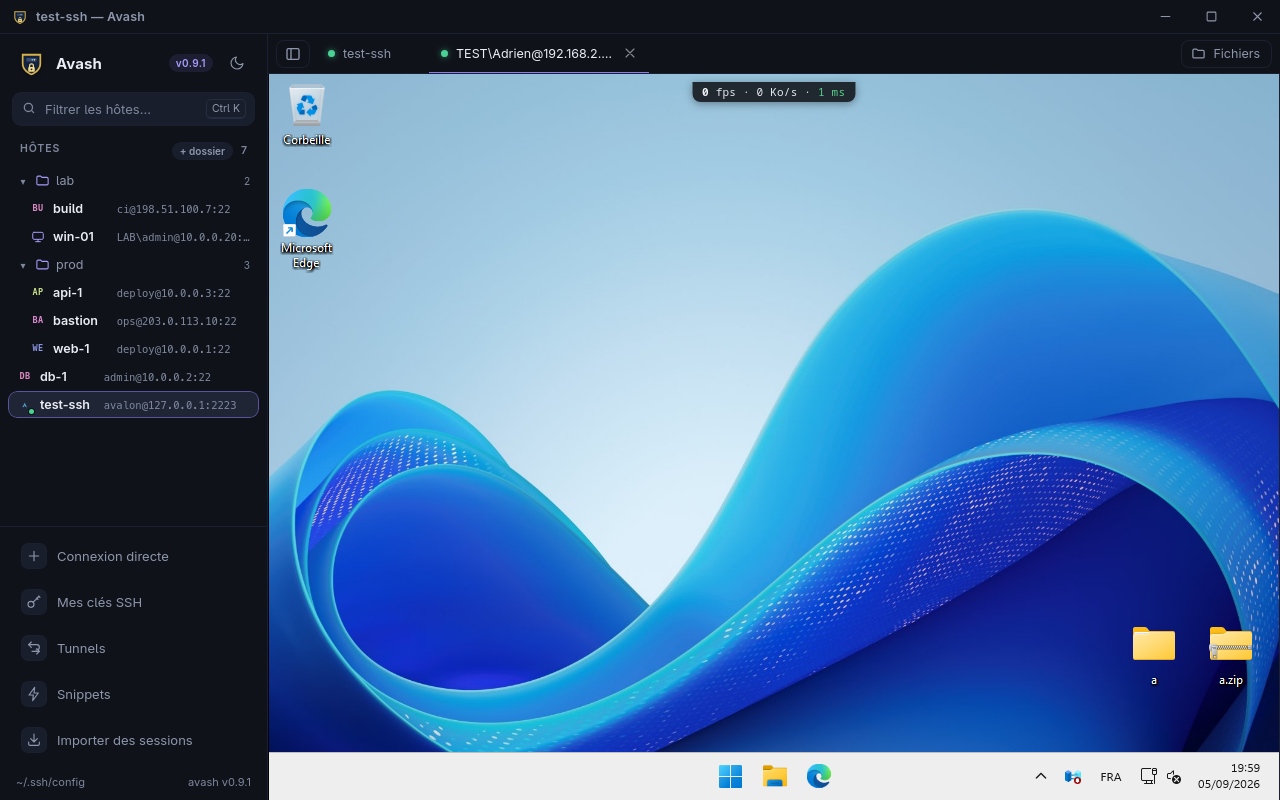
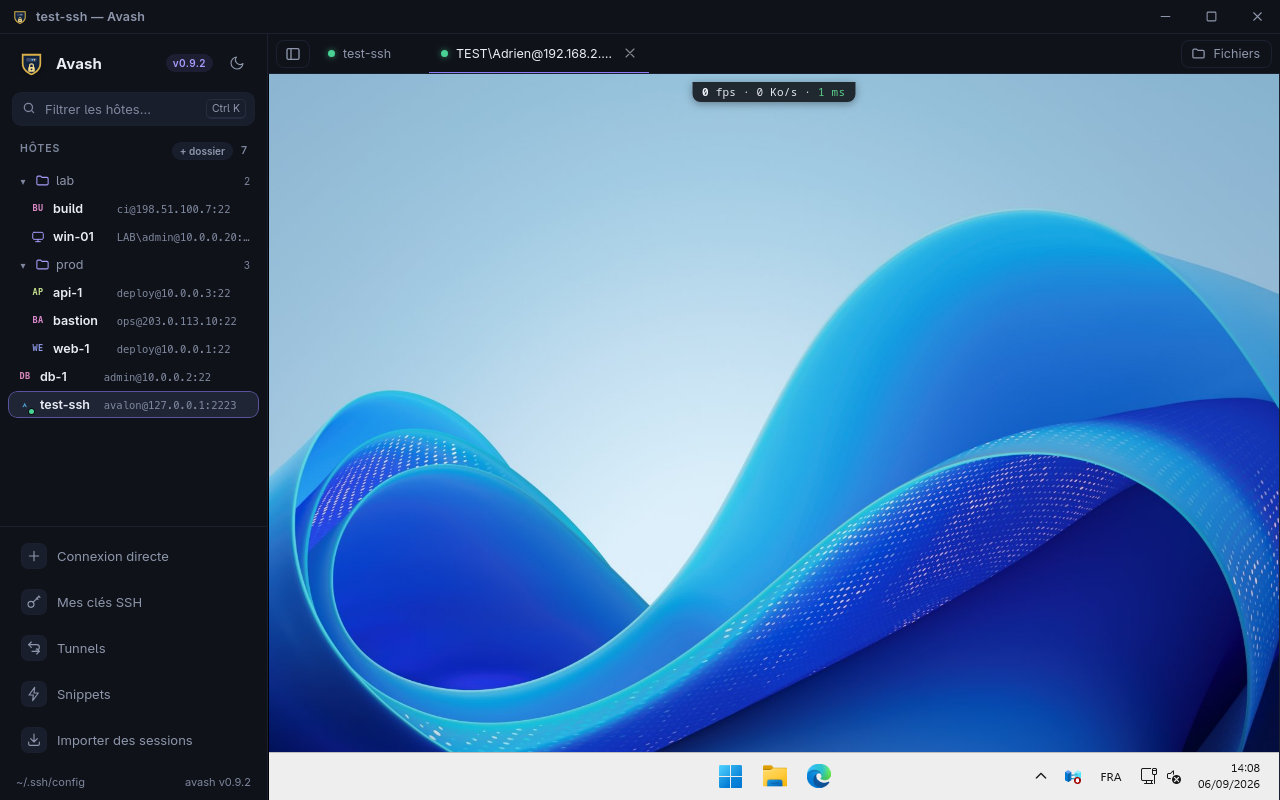
chore(release): 0.9.2
Correctif livré : une offre de fichier au bureau distant dans la foulée
d'une réception n'échoue plus (le canal du presse-papiers est attendu
jusqu'à trois secondes). Dans le même lot : la couverture mesurée sur
tests unitaires et suite bout en bout (84 % de l'espace de travail, 81 %
du processus RDP), deux scénarios de plus (clés SSH, tunnel réellement
ouvert), neuf tests du front, et la publication sur winget documentée.

Version portée dans les sept déclarations et les exemples des README ;
section [0.9.2] du CHANGELOG datée, entrée AppStream ajoutée, feuille de
route mise à jour. Captures régénérées sur le binaire 0.9.2 (poste du
parc dont la fenêtre de l'Explorateur, ouverte par les essais du lecteur
partagé, a été refermée d'abord).

Porte : NO_STRIP=1 ./scripts/release.sh vert (check.sh complet, AppImage,
deb, rpm, signatures de mise à jour).

Claude-Session: https://claude.ai/code/session_011o41sbD78KxYNxjUrR8xwF

diff --git a/docs/feuille-de-route.md b/docs/feuille-de-route.md
@@ -4,7 +4,7 @@ Ce document fixe le cap d'avash et sert de point de reprise entre les sessions d
 travail. Il est volontairement **fondé sur des constats mesurés**, pas sur des
 intentions : chaque objectif est vérifiable.
 
-Dernière révision : 5 septembre 2026, après la publication de la version 0.9.1
+Dernière révision : 6 septembre 2026, après la publication de la version 0.9.2
 — un lot de fond (panneau SFTP sur la session du terminal, mot de passe oublié
 dès la connexion, front et processus RDP découpés en modules, chaîne
 d'intégration complète, quarante tests de plus, fuzzing du parseur), après la
@@ -34,7 +34,7 @@ défaut n'est pas livrée, même terminée.
 
 ## Où nous en sommes (mesuré)
 
-| Indicateur | Valeur au 05/09/2026 |
+| Indicateur | Valeur au 06/09/2026 |
 |---|---|
 | Tests | 441 Rust (158 cœur, 47 intégration, 72 interface, 135 processus RDP, 29 serveurs de test) · 597 dans les paquets IronRDP et vnc-rs portés · 124 front · 71 scénarios bout en bout dans 36 fichiers, tous en intégration continue, sous Linux et sous Windows (serveurs locaux compris depuis le 05/09/2026), et hors serveurs locaux sous macOS |
 | Binaire Linux | 18 Mo (`codegen-units=1`, LTO fin) ; AppImage publiée 85 Mo |
@@ -42,7 +42,7 @@ défaut n'est pas livrée, même terminée.
 | Plateformes livrées | Linux (AppImage) et Windows (NSIS + portable), éprouvées sur machine réelle ; macOS (image disque) construite et testée en CI, pas encore éprouvée |
 | Couverture | 84 % des lignes de l'espace de travail (cœur 91 %, interface 70 %), 81 % du processus RDP, tests unitaires et suite bout en bout confondus sur des binaires instrumentés (`scripts/couverture.sh`, 06/09/2026) ; 201 mutants sur 264 attrapés sur les modules de sécurité |
 | Dette déclarée | aucun `TODO`/`FIXME` dans le code |
-| Version publiée | 0.9.1 (Linux AppImage, deb et rpm, Windows, macOS ; signées, attestation Sigstore et SBOM) |
+| Version publiée | 0.9.2 (Linux AppImage, deb et rpm, Windows, macOS ; signées, attestation Sigstore et SBOM) |
 | Licence | AGPL-3.0-or-later (+ licence commerciale possible) |
 
 Acquis récents : Windows validé en usage réel (RDP, clavier, mise à jour

diff --git a/README.md b/README.md
@@ -73,8 +73,8 @@ signés pour la mise à jour automatique et accompagnés de leurs empreintes.
 ### Linux
 
 ```bash
-chmod +x Avash_0.9.1_amd64.AppImage
-./Avash_0.9.1_amd64.AppImage
+chmod +x Avash_0.9.2_amd64.AppImage
+./Avash_0.9.2_amd64.AppImage
 ```
 
 L'AppImage embarque tout ce qu'il faut, WebKitGTK compris : rien à installer.
@@ -82,8 +82,8 @@ Pour une installation par le gestionnaire de paquets, la release porte aussi un
 `.deb` (Debian, Ubuntu) et un `.rpm` (Fedora, openSUSE) :
 
 ```bash
-sudo apt install ./Avash_0.9.1_amd64.deb      # Debian, Ubuntu
-sudo dnf install ./Avash-0.9.1-1.x86_64.rpm    # Fedora
+sudo apt install ./Avash_0.9.2_amd64.deb      # Debian, Ubuntu
+sudo dnf install ./Avash-0.9.2-1.x86_64.rpm    # Fedora
 ```
 
 Arch Linux : `packaging/aur/avash/PKGBUILD` construit le paquet depuis les
@@ -117,7 +117,7 @@ macOS est construite et testée en intégration continue mais n'a pas encore ét
 
 ```bash
 sha256sum -c SHA256SUMS                                             # intégrité
-gh attestation verify Avash_0.9.1_amd64.AppImage --repo AdrienAvalon/avash   # provenance
+gh attestation verify Avash_0.9.2_amd64.AppImage --repo AdrienAvalon/avash   # provenance
 ```
 
 La seconde vérification prouve que le fichier vient de ce dépôt, de ce commit,

diff --git a/README.en.md b/README.en.md
@@ -76,8 +76,8 @@ signed for the automatic updater and shipped with their checksums.
 ### Linux
 
 ```bash
-chmod +x Avash_0.9.1_amd64.AppImage
-./Avash_0.9.1_amd64.AppImage
+chmod +x Avash_0.9.2_amd64.AppImage
+./Avash_0.9.2_amd64.AppImage
 ```
 
 The AppImage bundles everything, WebKitGTK included: nothing to install.
@@ -85,8 +85,8 @@ For a package-manager install, each release also carries a `.deb` (Debian,
 Ubuntu) and an `.rpm` (Fedora, openSUSE):
 
 ```bash
-sudo apt install ./Avash_0.9.1_amd64.deb      # Debian, Ubuntu
-sudo dnf install ./Avash-0.9.1-1.x86_64.rpm    # Fedora
+sudo apt install ./Avash_0.9.2_amd64.deb      # Debian, Ubuntu
+sudo dnf install ./Avash-0.9.2-1.x86_64.rpm    # Fedora
 ```
 
 Arch Linux: `packaging/aur/avash/PKGBUILD` builds the package from source
@@ -118,7 +118,7 @@ tested in CI but has not been tried on a real machine yet: feedback welcome.
 
 ```bash
 sha256sum -c SHA256SUMS                                             # integrity
-gh attestation verify Avash_0.9.1_amd64.AppImage --repo AdrienAvalon/avash   # provenance
+gh attestation verify Avash_0.9.2_amd64.AppImage --repo AdrienAvalon/avash   # provenance
 ```
 
 The second check proves the file comes from this repository, at this commit,

diff --git a/CHANGELOG.md b/CHANGELOG.md
@@ -7,6 +7,8 @@ et le projet suit le [versionnage sémantique](https://semver.org/lang/fr/).
 
 ## [Non publié]
 
+## [0.9.2] - 2026-09-06
+
 - **Un fichier offert au bureau distant juste après en avoir reçu un n'échoue
   plus.** Le canal du presse-papiers met quelques PDU à revenir à l'état prêt
   après un collage ; une offre déposée dans cet intervalle était refusée
@@ -1625,7 +1627,8 @@ graphique complet (SSH et RDP), au-delà du cœur SSH initial.
   RDP transmis au sidecar par stdin, jamais en ligne de commande.
 - Diverses corrections de sécurité relevées lors d'un audit (dossiers et RDP).
 
-[Non publié]: https://github.com/AdrienAvalon/avash/compare/v0.9.1...HEAD
+[Non publié]: https://github.com/AdrienAvalon/avash/compare/v0.9.2...HEAD
+[0.9.2]: https://github.com/AdrienAvalon/avash/releases/tag/v0.9.2
 [0.9.1]: https://github.com/AdrienAvalon/avash/releases/tag/v0.9.1
 [0.9.0]: https://github.com/AdrienAvalon/avash/releases/tag/v0.9.0
 [0.8.0]: https://github.com/AdrienAvalon/avash/releases/tag/v0.8.0
